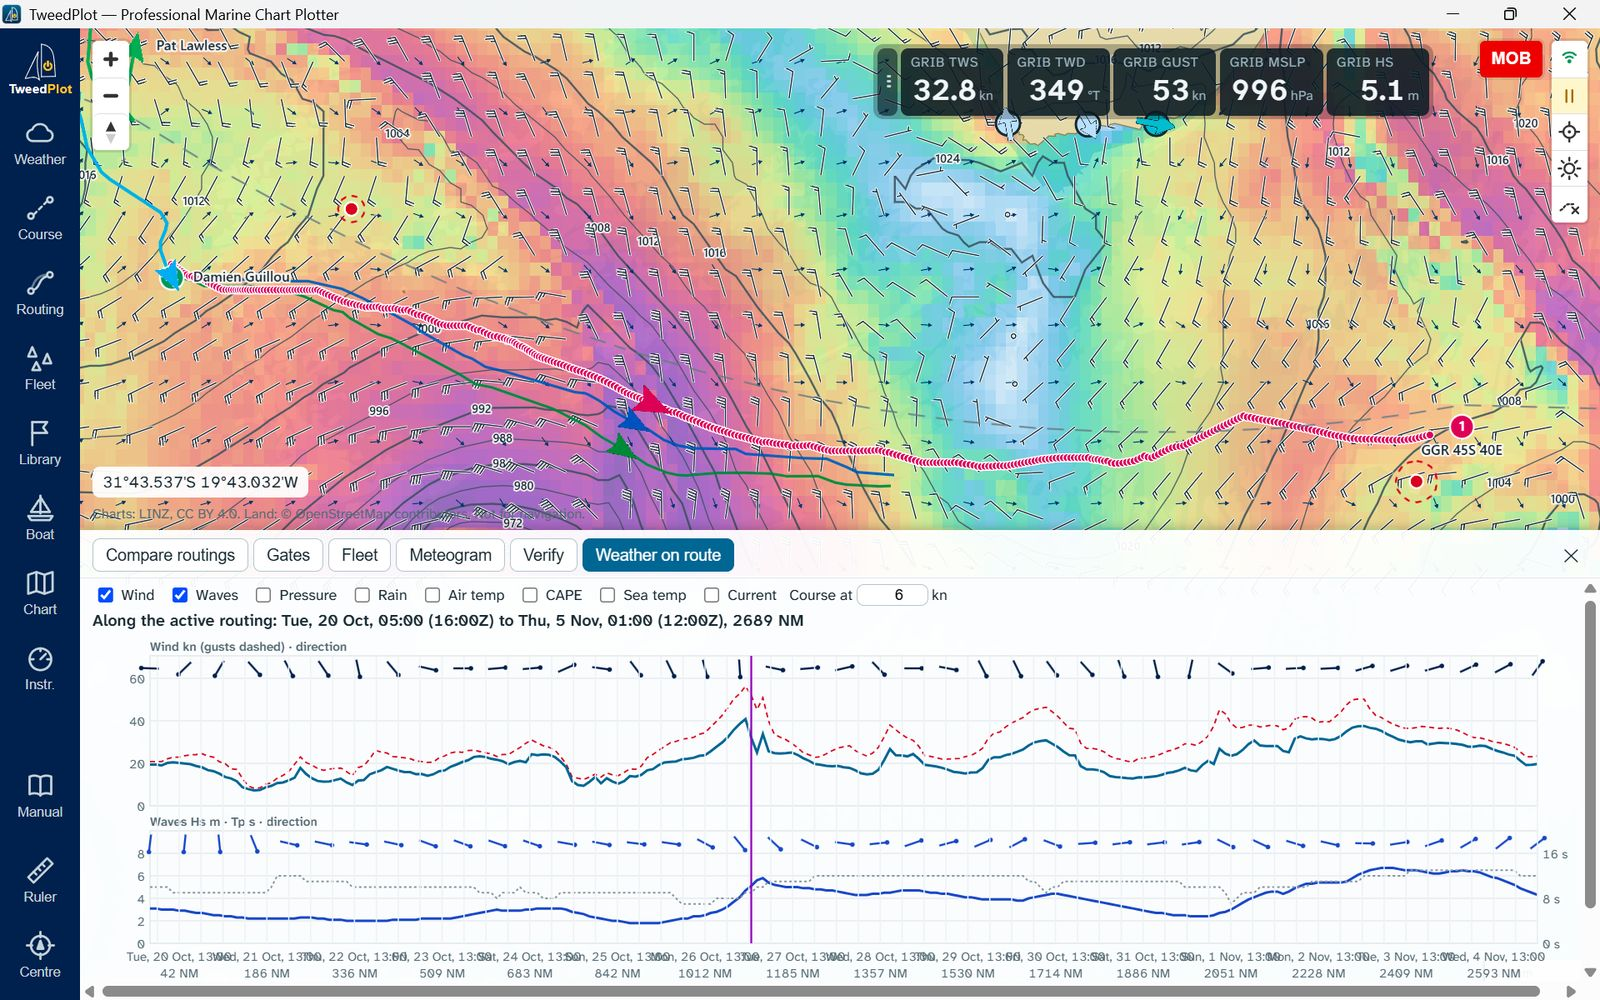
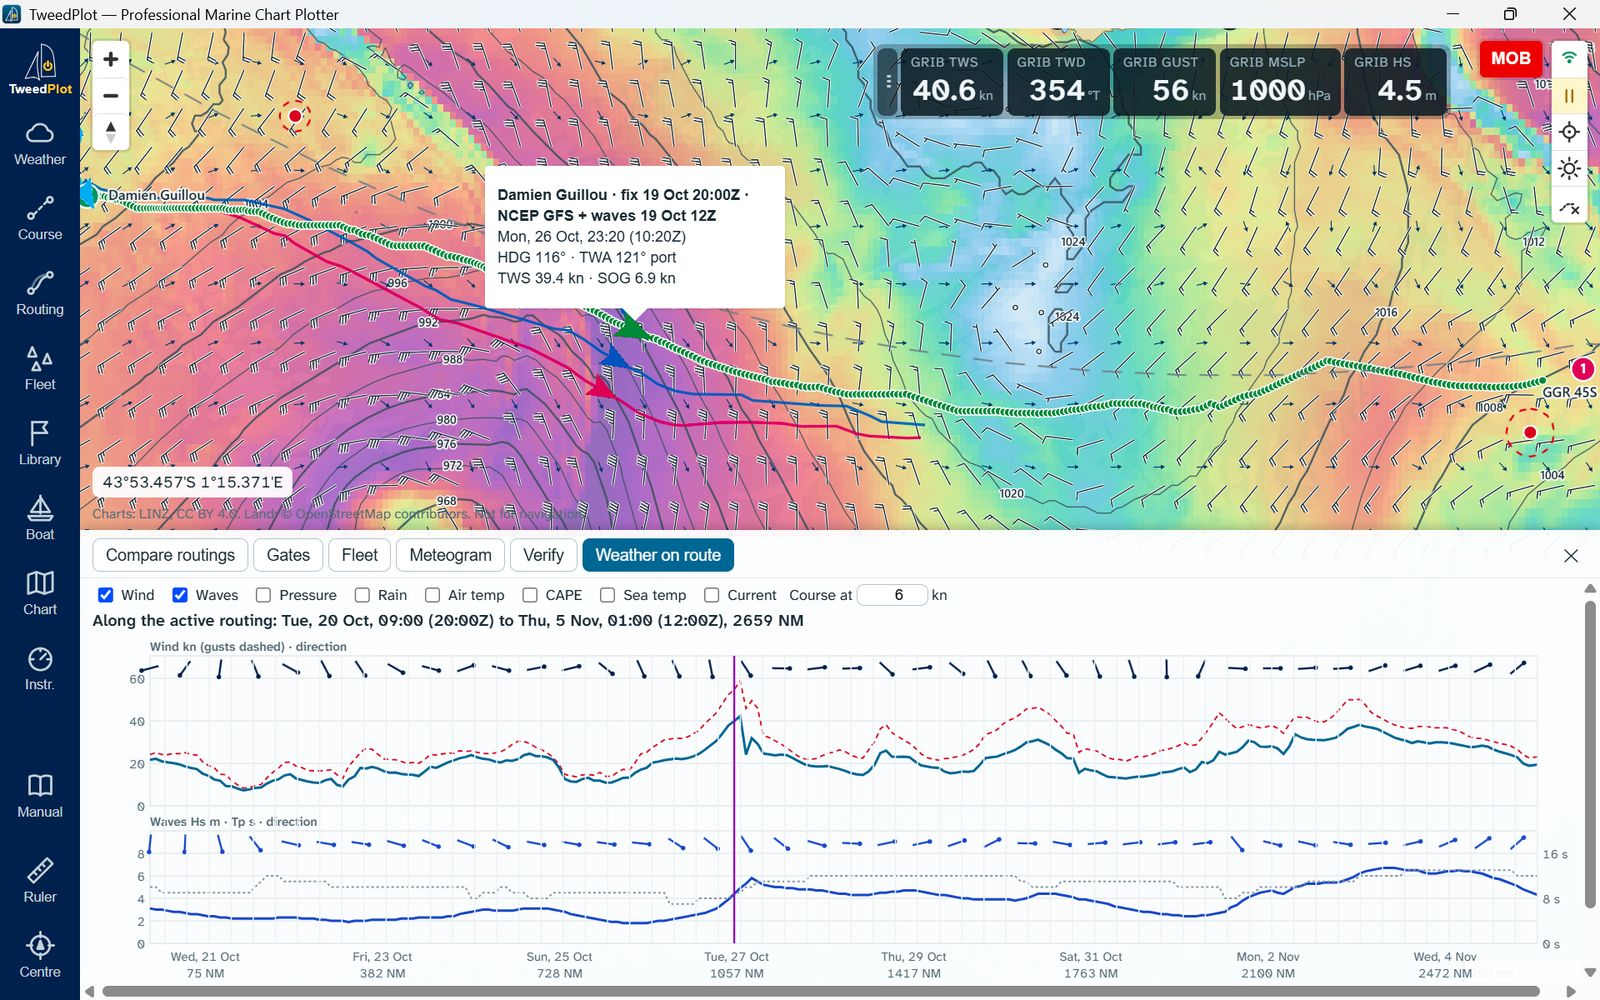
Manual: newer Weather on route screenshot (clean date labels)
Claude-Session: https://claude.ai/code/session_01T5SbeeucFvuQCPhCHoMFDV

diff --git a/app/public/manual/reference.md b/app/public/manual/reference.md
@@ -484,7 +484,7 @@ A daily MUR analysis stands for four days after its date, so it still shows at t
 
 It follows the active routing, with its own times and positions (and its TWA in the readout). With no routing, it follows the course (start and marks) at the speed you set, from the weather slider's time. Values come from the GRIB shown on the chart, and anything it doesn't have (waves, sea temperature) from another loaded file that does. Hover a strip to see the boat's place on the chart and every value there; click to move the weather slider to that time. Distance run is marked under the times.
 
-![Weather on route for a Golden Globe Race boat routed from the South Atlantic towards the Indian Ocean: 2689 NM over 16 days, with a gale of 40 kn gusting 55 and 5 to 6 m seas around 26 to 27 October, the purple line marking the slider time](img/11-weather-on-route.jpg)
+![Weather on route for a Golden Globe Race boat routed from the South Atlantic towards the Indian Ocean: 2659 NM over 16 days, with a gale of 40 kn gusting 55 and 5 to 6 m seas around 26 to 27 October; the purple line marks the slider time, and the popup on the chart is the routing at that moment](img/11-weather-on-route.jpg)
 
 **Meteogram**
 
